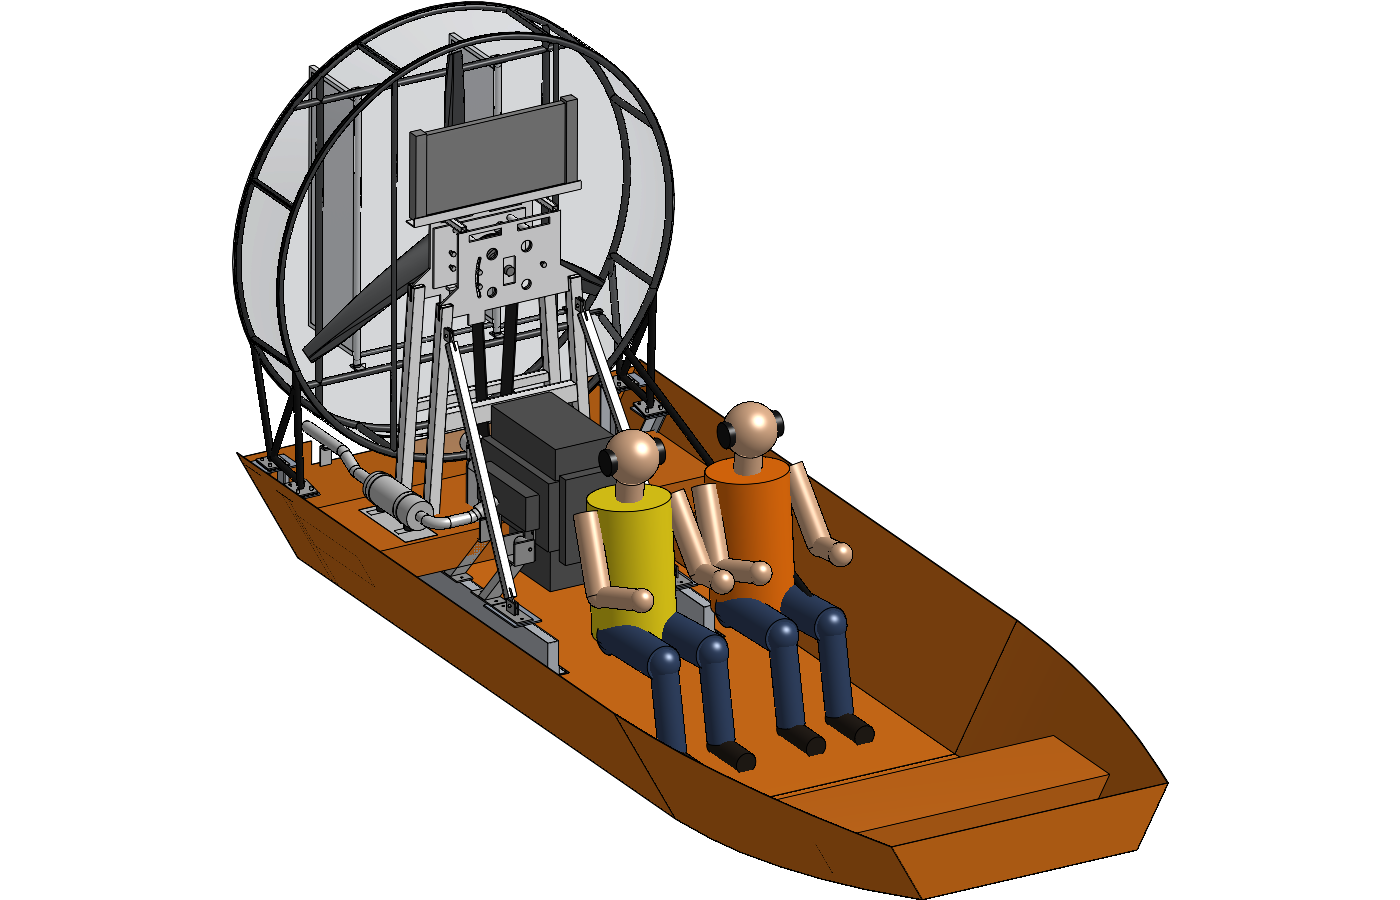
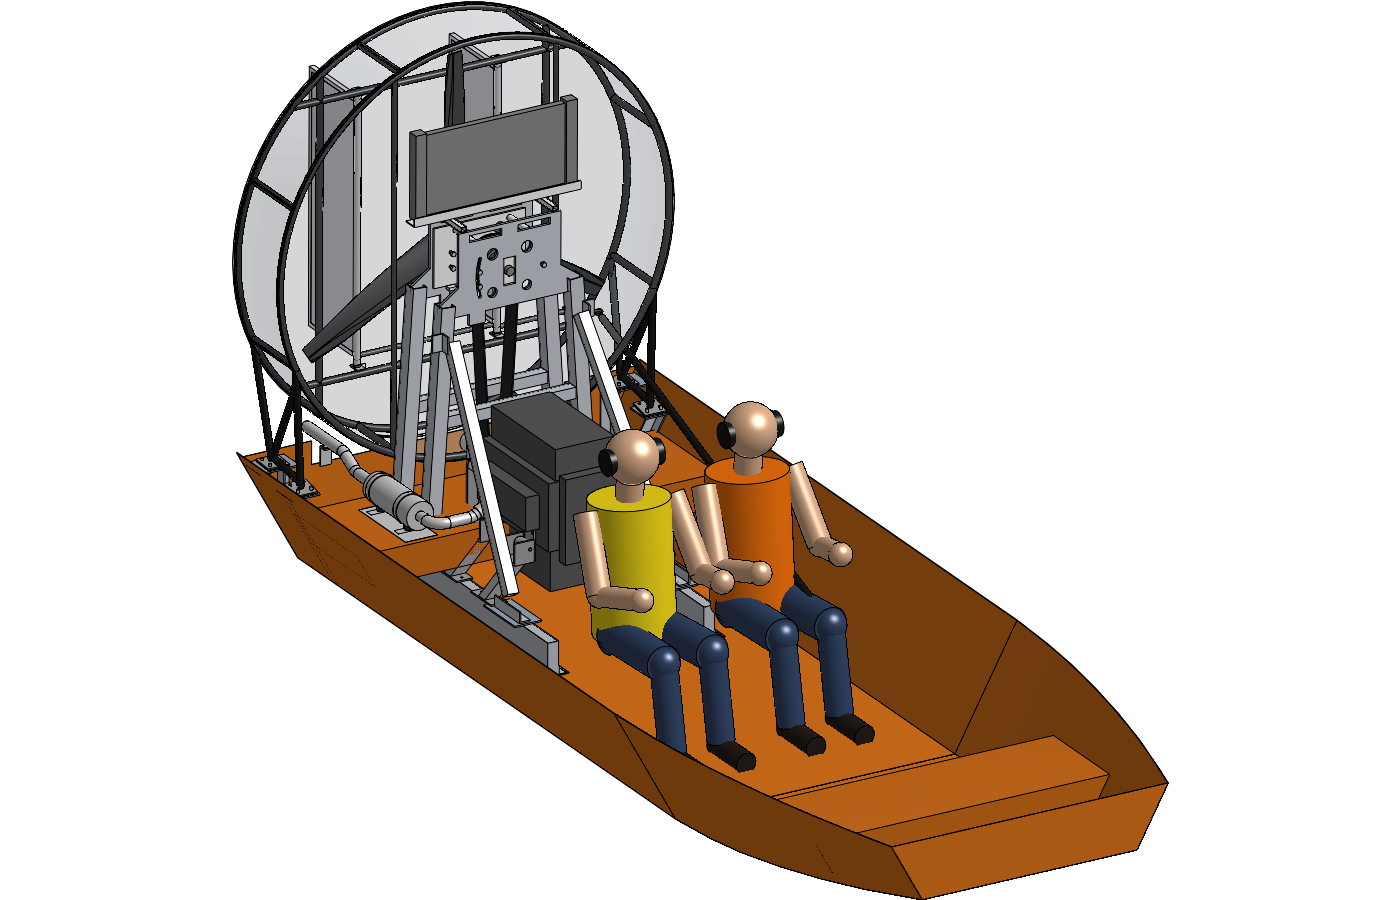
rev8: bolted aluminum A-frame replaces the welded steel one
- New "Aluminum A-frame (bolted)" feature in the drivetrain Part Studio:
  1/2 in 6061 peak plates (same outline and holes, inside faces unchanged),
  2.5x2.5x3/16 legs slotted over the plates, angle-clip feet on the existing
  mount-plate bolts, 2x2x3/16 crossbars and braces with angle brackets
- Steel parts removed by position; no interference with the redrive, yoke,
  radiator rails or engine
- CAD weight: aluminum ~81 lb with hardware vs ~145 lb steel (the plan had
  assumed 100 -> 55); running weight log added, gear allowance now ~52 lb

Changed region(s): [[0.2764, 0.2178, 0.4607, 0.6844], [0.4607, 0.6222, 0.4914, 0.6533]]

diff --git a/rev8_JonAirBoat/reports/Weight_Reduction_Options.md b/rev8_JonAirBoat/reports/Weight_Reduction_Options.md
@@ -86,3 +86,19 @@ A lithium Group 31 battery would add about 40 lb to each of these limits.
 - **BOM:** the A-frame, cage, battery, seat and box lines, plus the armor coverage line.
 - **Build Guide:** the A-frame build (2.8) becomes bolted aluminum, and the cage (2.12) gains a tube-rolling step.
 - **Requirements:** R7.5 (weight budget) gets a weigh-in at each build stage.
+
+## Running weight log (driver gear allowance)
+
+Design payload is 280 lb of driver + gear on a 1652 (R1.1, R7.5). Every change below moves the driver's gear allowance pound for pound.
+
+| Date | Change | Weight effect vs the plan | Driver gear allowance |
+|---|---|---|---|
+| 2026-11-02 | Starting point (200 lb driver) | — | ~80 lb |
+| 2026-11-02 | Transom notch cut and capped with aluminum channel (1652 refit) | +1.5 lb | ~78 lb |
+| 2026-11-02 | **Aluminum A-frame modeled in CAD.** The steel rev7 A-frame measured **~145 lb** in CAD, not the 100 lb estimated. The bolted aluminum version is 76.7 lb of 6061 (22 parts) plus ~4 lb of bolts, about **81 lb**. That is ~64 lb lighter than the steel, but ~26 lb heavier than the 55 lb this plan had assumed. | +26 lb | **~52 lb** |
+
+Notes:
+- The 100 lb steel estimate was low, so other drivetrain estimates may be off too. A full CAD weigh-in (materials assigned to every part) should replace the estimates before the next release.
+- Ways to win back A-frame weight:
+  - Pocket the 1/2 in peak plates with lightening holes (about 5–8 lb).
+  - Use 3/8 in aluminum peak plates (about 6.5 lb). The plates take mostly in-plane loads, but check the bearing-flange bolt areas first.
